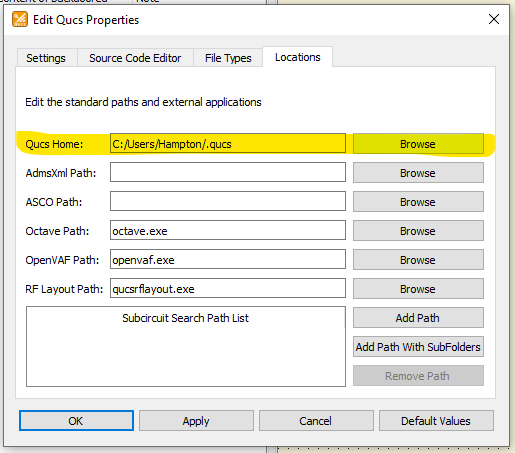
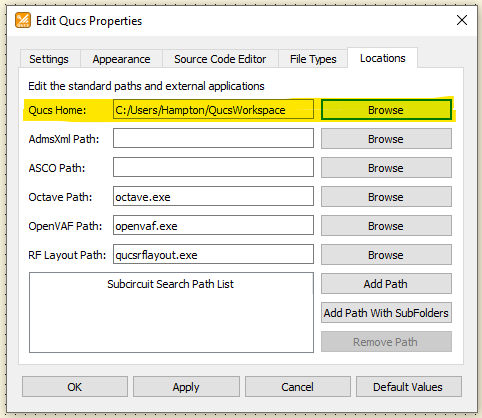
Correcting erroneous references to $HOME/.qucs as the default home directory

diff --git a/source/getting-started/interface-overview.md b/source/getting-started/interface-overview.md
@@ -28,7 +28,7 @@ It contains 4 tabs, described below (from top to bottom).
 
 ### Projects Tab
 
-This tab is used to choose a Qucs-S project to work in. It lists all the Qucs-S projects stored in the default directory (Typically, ``C:\Users\John Doe\.qucs`` or ``/home/johndoe/.qucs``).
+This tab is used to choose a Qucs-S project to work in. It lists all the Qucs-S projects stored in the default directory (Typically, ``C:\Users\John Doe\QucsWorkspace`` or ``/home/johndoe/QucsWorkspace``).
 
 See the [Understanding File Structure](/getting-started/understanding-file-structure) page for more information on how Qucs-S projects are stored.
 
@@ -40,7 +40,7 @@ This tab allows a few basic tasks:
 * To activate a project, either double-click it, or single-click it and choose "Open". Upon activating the project, you'll be taken to the Contents tab, summarizing that project.
 * To create a new project, click the "New" button.
 * To delete a project, click the "Delete" button.
-* If your ``.qucs`` folder contains subfolders to organize your projects, you can navigate the subfolders within the Projects tab by double-clicking (much like a typical file explorer view).
+* If your Qucs-S Home Directory contains subfolders to organize your projects, you can navigate the subfolders within the Projects tab by double-clicking (much like a typical file explorer view).
 
 ```{figure} /getting-started/images/projects-tab.png
 ---
